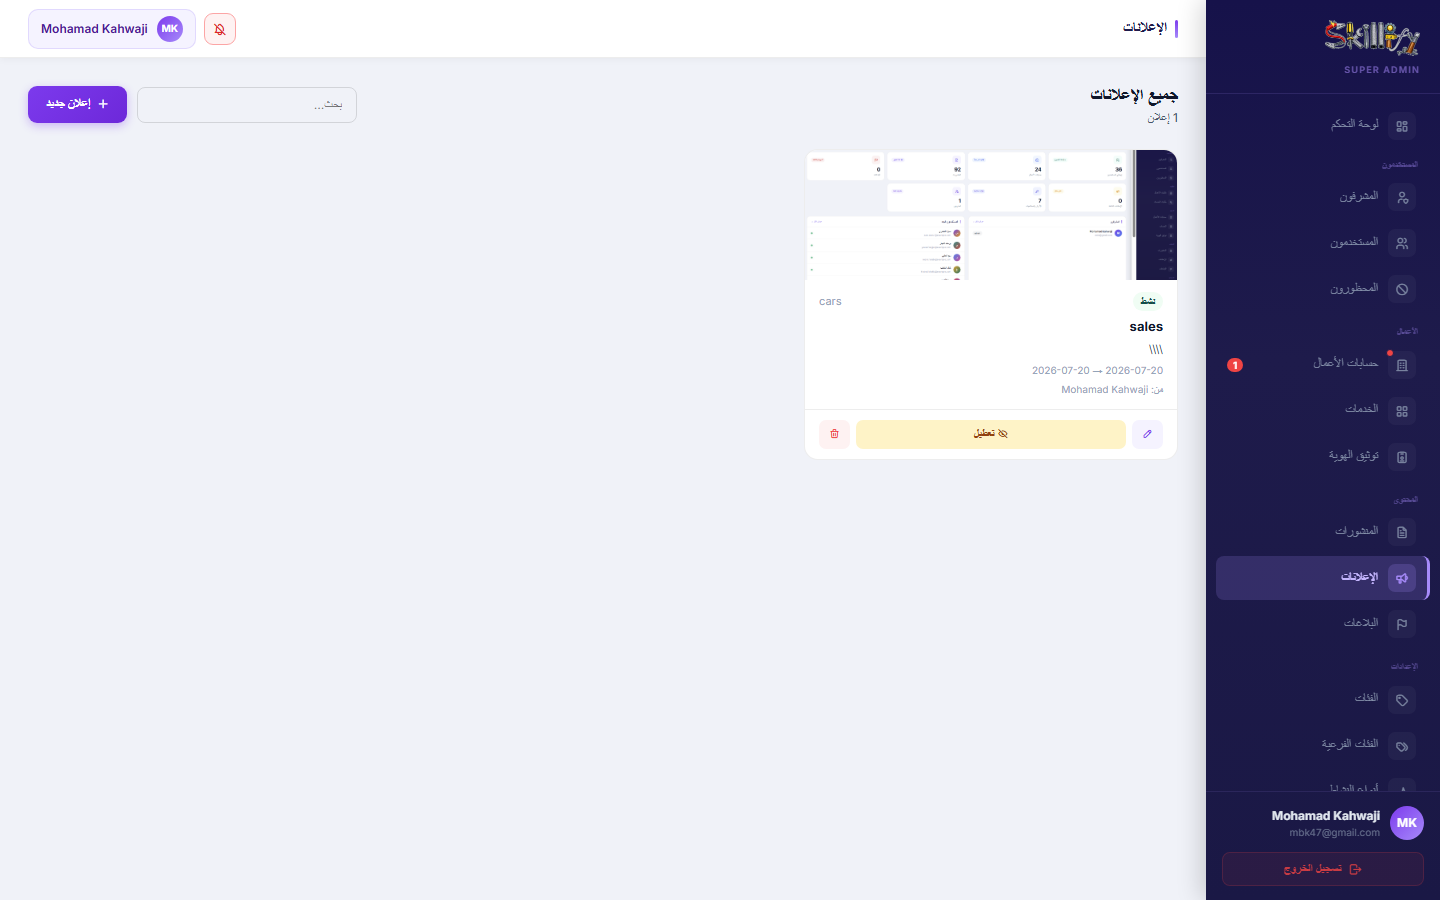
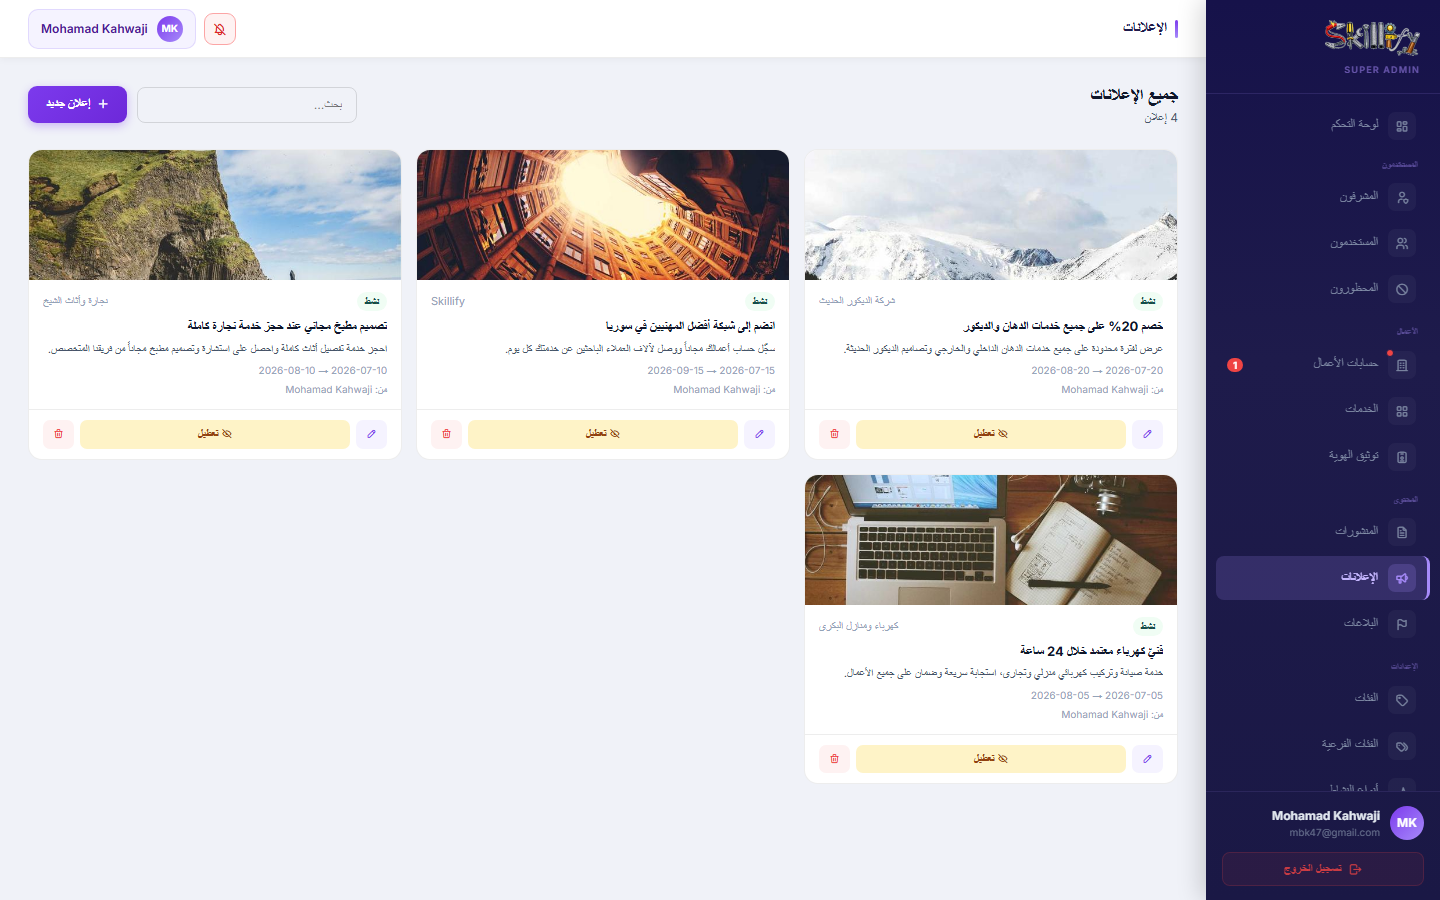
Add realistic ad examples and fix ad image URL bug on Landing page
Replaced the single test ad ("sales"/"cars" placeholder) with four
realistic ads covering different service categories, so the ads
feature has meaningful example content. Also fixed Landing.jsx's ad
card image src, which prepended /storage/ even for absolute URLs —
same bug pattern already fixed elsewhere for business images.

diff --git a/resources/js/Pages/Landing.jsx b/resources/js/Pages/Landing.jsx
@@ -377,7 +377,7 @@ export default function Landing({ ads = [], topProfessionals = [], categories = 
                                 <div key={ad.id} className="group bg-white rounded-3xl overflow-hidden shadow-sm border border-gray-100 hover:shadow-xl hover:-translate-y-1 transition-all duration-300">
                                     <div className="h-44 bg-gradient-to-br from-[#F0FDFA] to-[#F0FDFA] overflow-hidden relative">
                                         {ad.image
-                                            ? <img src={`/storage/${ad.image}`} alt={ad.title} className="w-full h-full object-cover group-hover:scale-105 transition-transform duration-500" />
+                                            ? <img src={storageUrl(ad.image)} alt={ad.title} className="w-full h-full object-cover group-hover:scale-105 transition-transform duration-500" />
                                             : (
                                                 <div className="w-full h-full flex flex-col items-center justify-center gap-2">
                                                     <div className="w-14 h-14 rounded-2xl bg-[#0D9488]/10 flex items-center justify-center text-3xl">📢</div>
